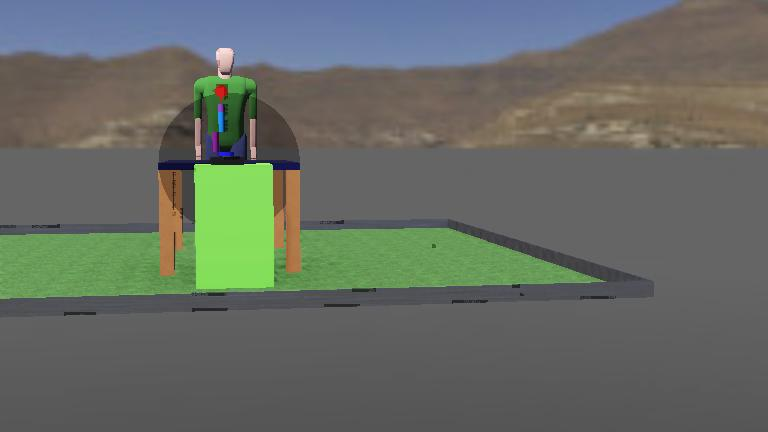
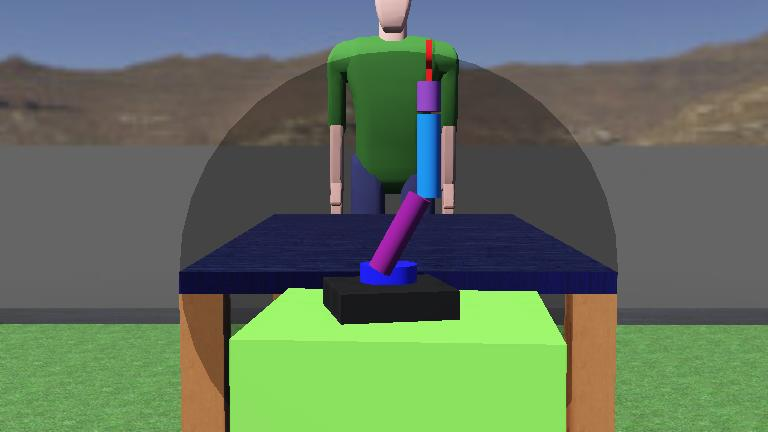
dim

diff --git a/WebotEnv/my_project/controllers/my_controller/my_controller.cpp b/WebotEnv/my_project/controllers/my_controller/my_controller.cpp
@@ -1,0 +1,28 @@
+#include <webots/Supervisor.hpp>
+#include <webots/Marker.hpp>
+#include <cmath>
+
+using namespace webots;
+
+int main(int argc, char** argv) {
+  Supervisor* supervisor = new Supervisor();
+  Node* semicircle = supervisor->getFromDef("plane");
+
+  double radius = semicircle->getField("radius")->getSFFloat();
+  const int num_divisions = 6;
+  const double angle_step = M_PI / num_divisions;
+
+  for (int i = 0; i < num_divisions; i++) {
+    double angle = (i + 1) * angle_step;
+    double x = radius * cos(angle);
+    double z = radius * sin(angle);
+
+    Marker* marker = supervisor->getWorld()->createMarker("marker");
+    marker->setPosition(Vector3d(x, 0.01, z));
+    marker->setAppearance(0xff0000); // set color to red
+  }
+
+  supervisor->step(0);
+  delete supervisor;
+  return 0;
+}
